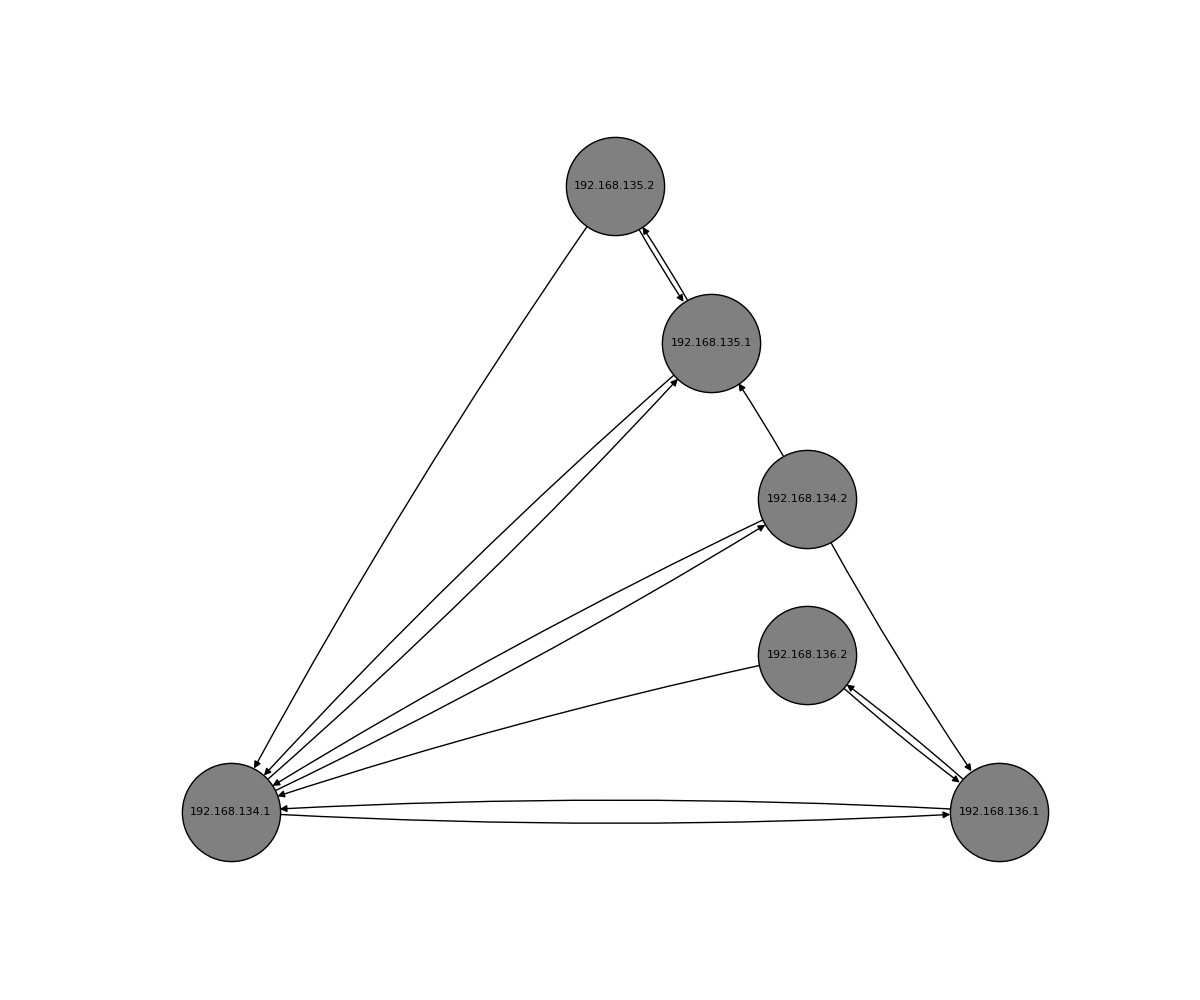
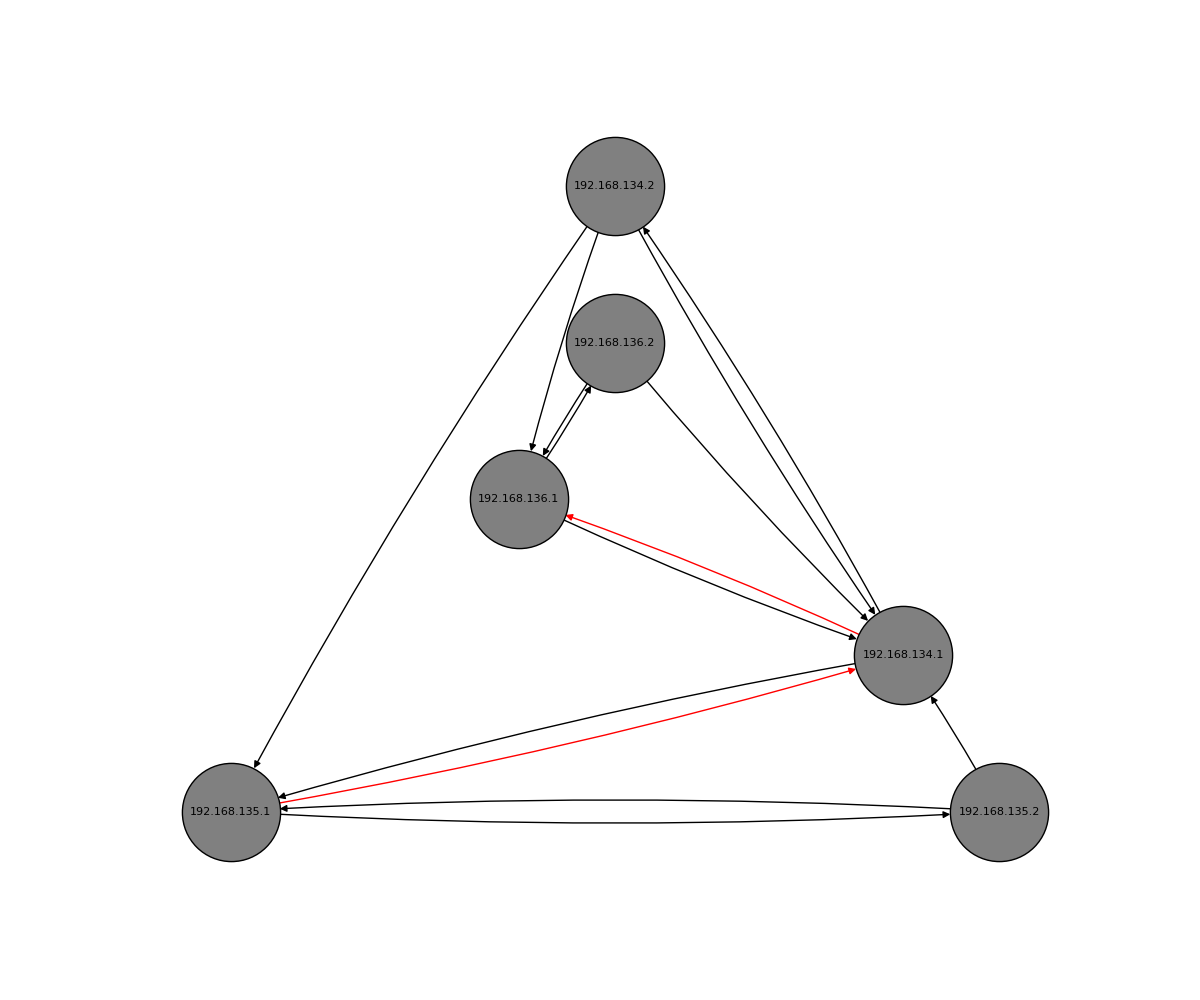
refactoring_complete

diff --git a/refactoring.py b/refactoring.py
@@ -119,56 +119,35 @@ class Handler():
             if self.user_input == n.ip_addr:
                 self.start = n
 
-    def dfs(self, visited, nodes_dict, node_c=0, path=None):
-        if path is None:
-            path = []
-        visited[nodes_dict[self.start]] = True
-        path.append(self.start.ip_addr)
-        if self.start.max_priv < 3:
-            if len(path) > 1:
-                print(path)
-                global fn_res
-                self.fn_res.append(copy.deepcopy(path))
-        else:
-            for node in self.start.linked_nodes:
-                node_c = 0
-                if (visited[nodes_dict[node]] == False) and node.vuln_count > 0 and self.start.max_priv >= 3:
-                    node_c += 1
-                    dfs(node, visited, path, node_c)
-        if node_c == 0:
-            if len(path) > 1:
-                print(path)
-                self.fn_res.append(copy.deepcopy(path))
-        path.pop()
-        visited[nodes_dict[self.start]] = False
-
-    def _format_to_graph(self):
-        prev_len = len(self.fn_res)
+    @staticmethod
+    def format_to_graph():
+        prev_len = len(fn_res)
         for i in range(prev_len):
             a = list()
-            for t in range(len(self.fn_res[i]) - 1):
-                a.append((self.fn_res[i][t], self.fn_res[i][t + 1]))
-            self.fn_res.append(a)
+            for t in range(len(fn_res[i]) - 1):
+                a.append((fn_res[i][t], fn_res[i][t + 1]))
+            fn_res.append(a)
         for i in range(prev_len):
-            del self.fn_res[0]
-        return self.fn_res
+            del fn_res[0]
+        return fn_res
 
-    def _get_default_edges(self, nodes):
+    @staticmethod
+    def get_default_edges(nodes):
         tuple_list = []
         for node in nodes:
             for peer in node.linked_nodes:
                 tuple_list.append((node.ip_addr, peer.ip_addr))
         return tuple_list
 
-    def _get_attack_edges(self, nodes, tuple_list):
-        def_edges = self._get_default_edges(nodes)
-        for i in range(len(def_edges)):
+    @staticmethod
+    def get_attack_edges(def_edges, temp_data):
+        for i in range(len(temp_data)):
             final_list_for_graph = []
-            for m in tuple_list:
-                t_list = self._format_to_graph()
-                if m not in t_list:
+            for m in def_edges:
+                if m not in temp_data:
                     final_list_for_graph.append(m)
-        return t_list, final_list_for_graph
+        return temp_data, final_list_for_graph
+
 
 class Ilustrator():
     def_edge_color = 'black'
@@ -186,25 +165,39 @@ class Ilustrator():
         self.def_edges = def_edges
 
     def create_default_graph(self):
-        pass
-
-    def create_graph_attack_graph(self):
         G = nx.DiGraph()
-        G.add_edges_from(self.attack_edges, color=self.attack_edge_color, weight=self.width)
         G.add_edges_from(self.def_edges, color=self.def_edge_color, weight=self.width)
-        pos = nx.planar_layout(G)
+        t = nx.planar_layout(G)
         edges = G.edges()
         colors = [G[u][v]['color'] for u, v in edges]
         weights = [G[u][v]['weight'] for u, v in edges]
         plt.figure(figsize=(12, 10))
         pos = nx.planar_layout(G)
-        g_nodes = nx.draw_networkx_nodes(G, pos, node_size=self.node_size, node_color=self.node_color)
-        nx.draw_networkx_edges(G, pos, edgelist=edges, edge_color=colors, node_size=self.node_size, width=weights,
+        g_nodes = nx.draw_networkx_nodes(G, pos=t, node_size=self.node_size, node_color=self.node_color)
+        nx.draw_networkx_edges(G, pos=t, edgelist=edges, edge_color=colors, node_size=self.node_size, width=weights,
                                connectionstyle=self.connectionstyle)
         g_nodes.set_edgecolor(self.node_edge_color)
-        nx.draw_networkx_labels(G, pos, font_size=self.font_size, font_color=self.font_color)
+        nx.draw_networkx_labels(G, pos=t, font_size=self.font_size, font_color=self.font_color)
         plt.axis("off")
-        plt.savefig(f"Graph.png", format="PNG")
+        plt.savefig(f"def_graph.png", format="PNG")
+
+    def create_graph_attack_graph(self, i):
+        G = nx.DiGraph()
+        G.add_edges_from(self.attack_edges, color=self.attack_edge_color, weight=self.width)
+        G.add_edges_from(self.def_edges, color=self.def_edge_color, weight=self.width)
+        t = nx.planar_layout(G)
+        edges = G.edges()
+        colors = [G[u][v]['color'] for u, v in edges]
+        weights = [G[u][v]['weight'] for u, v in edges]
+        plt.figure(figsize=(12, 10))
+        pos = nx.planar_layout(G)
+        g_nodes = nx.draw_networkx_nodes(G, pos=t, node_size=self.node_size, node_color=self.node_color)
+        nx.draw_networkx_edges(G, pos=t, edgelist=edges, edge_color=colors, node_size=self.node_size, width=weights,
+                               connectionstyle=self.connectionstyle)
+        g_nodes.set_edgecolor(self.node_edge_color)
+        nx.draw_networkx_labels(G, pos=t, font_size=self.font_size, font_color=self.font_color)
+        plt.axis("off")
+        plt.savefig(f"Graph{i}.png", format="PNG")
 
 
 
@@ -212,7 +205,6 @@ class Ilustrator():
 
 data = Parser()
 vulns_dict = data.parse_vulnerabilies()
-print(vulns_dict)
 networks = data.parse_net_topology()
 nodes_dict = data.parse_nodes()
 nodes = nodes_dict.keys()
@@ -236,7 +228,7 @@ def dfs(start, visited, path=None, node_c=0):
         if len(path) > 1:
             print(path)
             global fn_res
-            fn_res.append(path)
+            fn_res.append(copy.deepcopy(path))
     else:
         for node in start.linked_nodes:
             node_c = 0
@@ -246,31 +238,25 @@ def dfs(start, visited, path=None, node_c=0):
     if node_c == 0:
         if len(path) > 1:
             print(path)
-            fn_res.append(path)
+            fn_res.append(copy.deepcopy(path))
     path.pop()
     visited[nodes_dict[start]] = False
 
-# user_input = '192.168.134.1'
-temp = Handler(user_input='192.168.134.1')
+
+temp = Handler(user_input='192.168.135.1')
 visited = [False] * len(nodes)
 temp.get_node_by_input(nodes_dict)
-temp.dfs(visited=visited, nodes_dict=nodes_dict)
+dfs(temp.start, visited=visited)
+attack_edges_list = temp.format_to_graph()
+def_edges = temp.get_default_edges(nodes)
+result = Ilustrator(attack_edges=attack_edges_list, def_edges=def_edges)
+result.create_default_graph()
+for i in range(len(attack_edges_list)):
+    temp_tuple = temp.get_attack_edges(def_edges=def_edges, temp_data=attack_edges_list[i])
+    temp_res = Ilustrator(def_edges=temp_tuple[1], attack_edges=temp_tuple[0])
+    temp_res.create_graph_attack_graph(i)
 
-print('dfs_second')
-# dfs(start=start, visited=visited)
 
-
-
-def formatize_to_graph(t_list):
-    prev_len = len(t_list)
-    for i in range(prev_len):
-        a = list()
-        for t in range(len(t_list[i]) - 1):
-            a.append((t_list[i][t], t_list[i][t+1]))
-        t_list.append(a)
-    for i in range(prev_len):
-        del t_list[0]
-    return t_list
 
 
 
